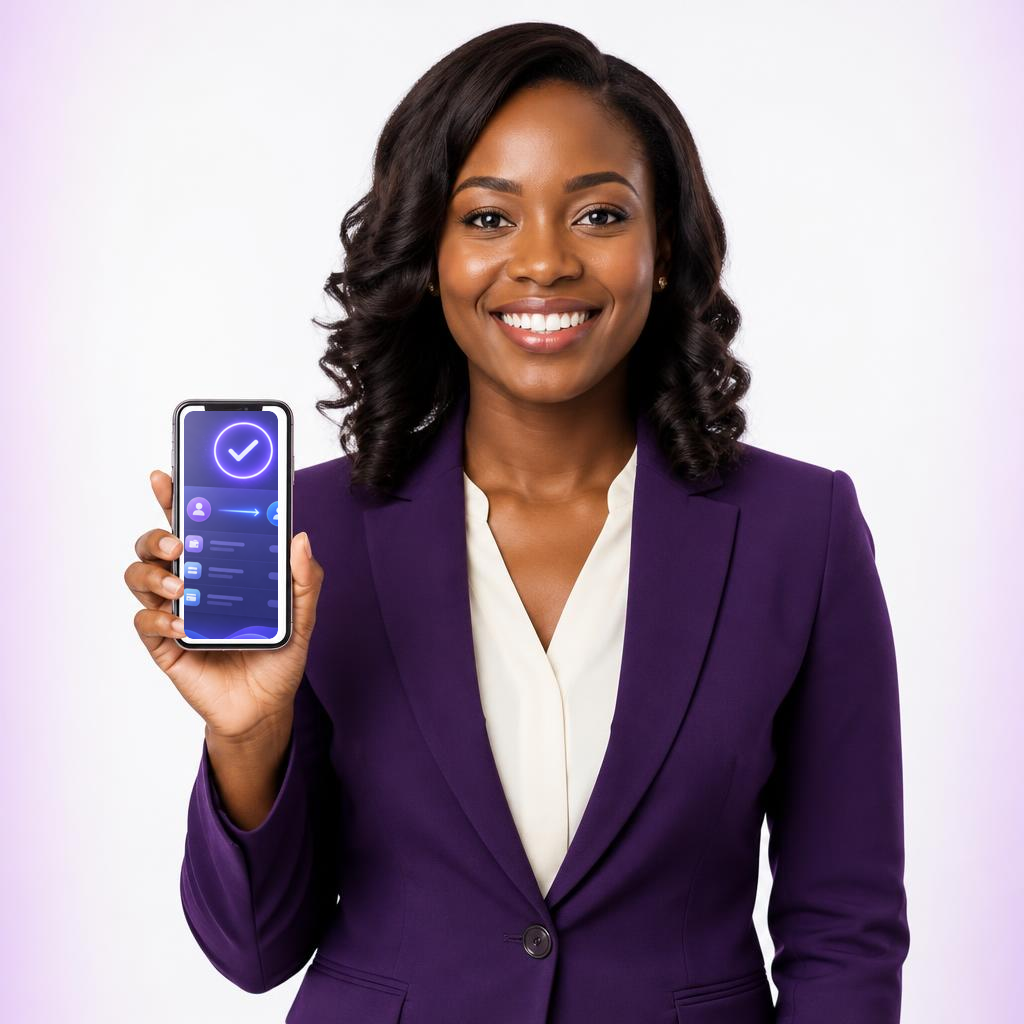
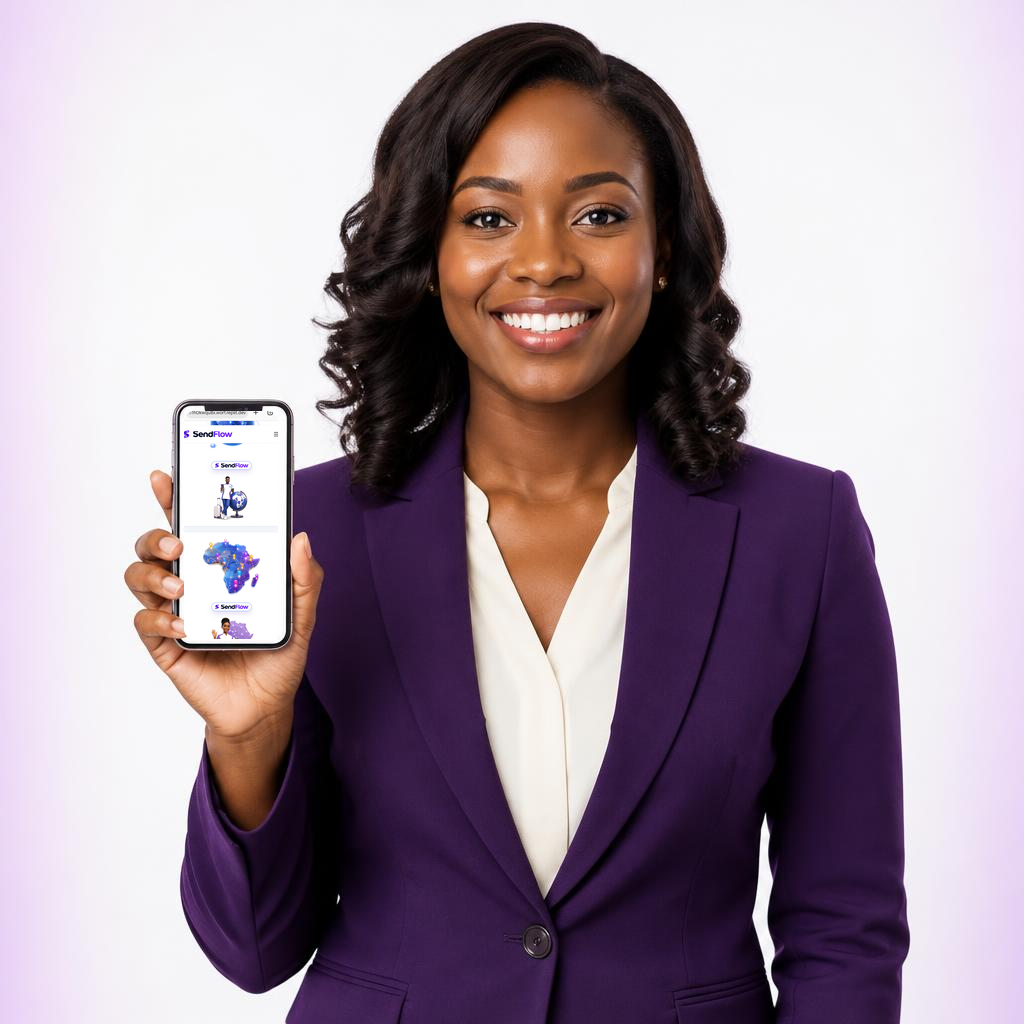
Update Replit configuration and refresh about carousel assets
Replit-Commit-Author: Agent

Changed region(s): [[0.1562, 0.375, 0.2812, 0.625]]

diff --git a/artifacts/sendflow/src/lib/aboutCarouselAssets.ts b/artifacts/sendflow/src/lib/aboutCarouselAssets.ts
@@ -1,4 +1,4 @@
-import aboutHeroWoman from '@assets/file_0000000078c88210a7a3043febb33e01_1789621535794.png';
+import aboutHeroWoman from '@assets/generated_images/sendflow-about-hero-page.png';
 import professional01 from '@assets/generated_images/sendflow-about-professional-01-screen.png';
 import professional02 from '@assets/generated_images/sendflow-about-professional-02-screen.png';
 import professional03 from '@assets/generated_images/sendflow-about-professional-03-screen.png';
